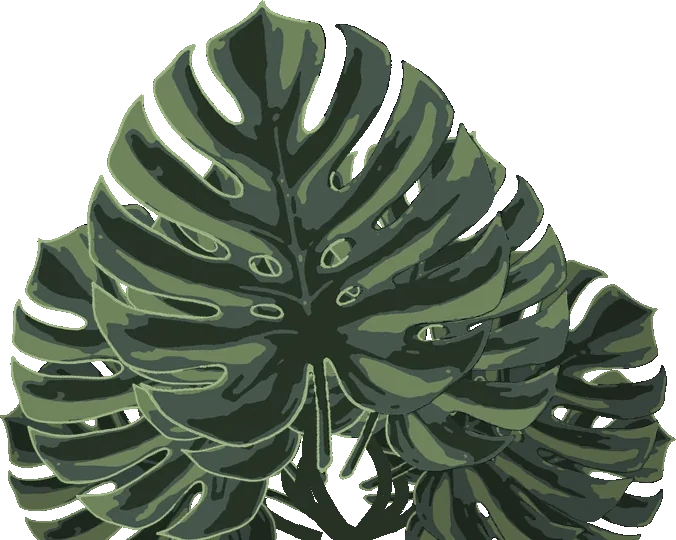
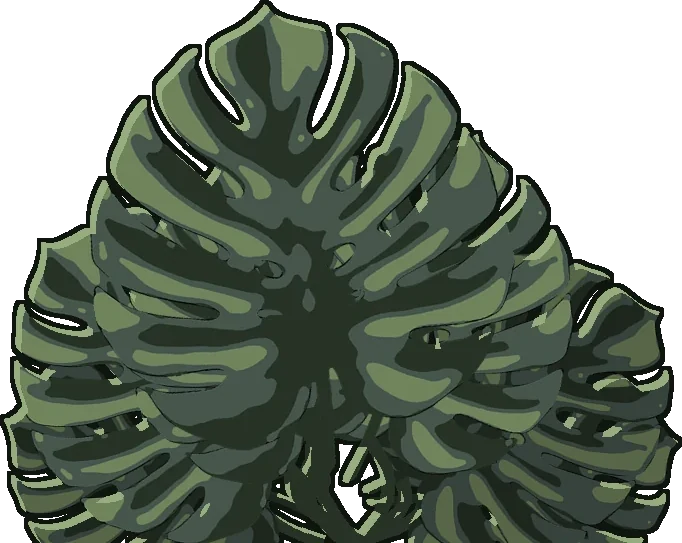
group-only ink outlines on grass and monstera; style.md

Changed region(s): [[0.0, 0.0, 1.0, 1.0]]

diff --git a/js/assets.js b/js/assets.js
@@ -34,8 +34,8 @@ export const V = {
 "tex/cl-s3.webp": "3932c956",
 "tex/clouds1.webp": "090f94e0",
 "tex/cloudsea.webp": "0c5f6e52",
-"tex/curlgrass.webp": "ccdf1a13",
-"tex/curlgrass2.webp": "82fd1fdf",
+"tex/curlgrass.webp": "3369e807",
+"tex/curlgrass2.webp": "20a52c26",
 "tex/door.webp": "d98fc0db",
 "tex/fanpalm.webp": "e7a29edd",
 "tex/farpines.webp": "e8c29d89",
@@ -53,8 +53,8 @@ export const V = {
 "tex/mass1.webp": "c328115c",
 "tex/mass2.webp": "695a4d5f",
 "tex/midpines.webp": "75256400",
-"tex/monstera-a.webp": "f95dcefc",
-"tex/monstera-b.webp": "d501b5db",
+"tex/monstera-a.webp": "786393f5",
+"tex/monstera-b.webp": "32ea7525",
 "tex/monstera.webp": "465a8a89",
 "tex/puff.png": "0bdc66af",
 "tex/roof.webp": "e75376e0",

diff --git a/tools/paint_grass_monstera.py b/tools/paint_grass_monstera.py
@@ -20,6 +20,17 @@ C = [tuple(int(v) for v in DARK) + (255,), tuple(int(v) for v in MID) + (255,), 
 RIM = tuple(int(min(255, v * 1.18 + 18)) for v in LIT) + (255,)
 
 S = 4  # supersample
+INK = tuple(int(v * 0.42) for v in DARK) + (255,)  # colored ink, a deep green, never pure black
+
+
+def outline(im, px=4):
+    # one ink line around the whole group's outer silhouette only: no lines inside the group
+    a = np.array(im).copy()
+    al = Image.fromarray(np.where(a[:, :, 3] > 110, 255, 0).astype('uint8'))
+    grown = np.array(al.filter(ImageFilter.MaxFilter(px * 2 + 1))) > 128
+    ring = grown & (a[:, :, 3] <= 110)
+    a[ring] = INK
+    return Image.fromarray(a)
 
 
 def blade(d, x0, y0, h, w, bend, curl, col, rim=None):
@@ -74,13 +85,14 @@ def grass_card(path, W=512, H=768, blades=13):
         if layer == 2:
             blade(d, x0 - w, base, h * 0.7, w * 0.9, bend * 0.8, curl, C[2], RIM)
     im = im.resize((W, H), Image.LANCZOS)
+    a = np.array(im); a[:, :, 3] = np.where(a[:, :, 3] > 110, 255, 0); im = outline(Image.fromarray(a), 3)
     im.save(path, 'WEBP', quality=88, method=6)
     print('wrote', path)
 
 
 def posterize_leaf(img):
     al0 = np.array(img.convert('RGBA'))[:, :, 3].astype(float)
-    a = np.array(img.convert('RGBA').filter(ImageFilter.GaussianBlur(3))).astype(float)
+    a = np.array(img.convert('RGBA').filter(ImageFilter.GaussianBlur(9))).astype(float)
     a[:, :, 3] = al0
     lum = a[:, :, :3].mean(2)
     al = a[:, :, 3]
@@ -94,11 +106,11 @@ def posterize_leaf(img):
     src = a[:, :, :3]
     edge = np.array(Image.fromarray(np.where(al0 > 110, 255, 0).astype('uint8')).filter(ImageFilter.MinFilter(9))) < 128
     rim = inside & edge & (np.arange(a.shape[1])[None, :] < a.shape[1] * 0.62)
-    out[rim, :3] = RIM[:3]
+    # no per-leaf rim: inner detail stays minimal, the light edge goes on the whole mass only
     out[:, :, 3] = np.where(al > 110, 255, 0)
     o = Image.fromarray(out.astype('uint8'))
     # flat shapes: smooth the step edges slightly so they read as painted, not pixel noise
-    o = o.filter(ImageFilter.ModeFilter(9))
+    o = o.filter(ImageFilter.ModeFilter(15))
     return o
 
 
@@ -135,7 +147,13 @@ def monstera_clump(path, W=1024, H=1024, seed=1, leaves=7):
         im.alpha_composite(lf, (int(cx - lf.width / 2), int(cy - lf.height / 2)))
     a = np.array(im)
     a[:, :, 3] = np.where(a[:, :, 3] > 120, 255, 0)
-    Image.fromarray(a).save(path, 'WEBP', quality=88, method=6)
+    # light rim on the lit (upper-left) side of the whole mass's silhouette only
+    inside = a[:, :, 3] > 0
+    er = np.array(Image.fromarray((inside * 255).astype('uint8')).filter(ImageFilter.MinFilter(13))) < 128
+    sh = np.zeros_like(inside); sh[6:, 6:] = inside[:-6, :-6]  # pixels whose up-left neighbour is outside = lit edge
+    lit = inside & er & ~sh
+    a[lit, :3] = RIM[:3]
+    outline(Image.fromarray(a), 4).save(path, 'WEBP', quality=88, method=6)
     print('wrote', path)
 
 

diff --git a/notes/style.md b/notes/style.md
@@ -1,0 +1,37 @@
+# Love Letter style sheet
+
+One hand-painted, calm, cinematic graphic-novel picture with soft toon color. Every element follows these rules.
+
+## Palette
+- Forest greens come from the pine painting (tex/tallpine.webp). Grass and monstera use the same three greens, sampled from it by tools/paint_grass_monstera.py: dark, mid, lit, plus one light rim color.
+- Sky: morning blue at the top, soft lilac-peach low. Dusk: warm peach and rose. Night: deep navy with a faint cool-rose afterglow low on the horizon.
+- Warm accents only on the subjects: window light, the red balloon, the letter paper.
+- No sun. No sun disc, no glow ball, no sun setting into the clouds. The warm sky gradient carries the light.
+
+## Value steps
+- Each painted element has 2 to 3 flat value steps: shade, mid, lit. No smooth gradients inside a shape.
+- Near frame is darkest, the subject area is brightest, far layers are lighter and bluer (aerial perspective).
+
+## Ink lines
+- Thin colored ink (not pure black) on the subjects: house, balloon, letter.
+- Ink fades with depth. Far cloud cards lift their dark lines toward the paint around them (uInkFade, 0 at z -15, up to 0.85 far away).
+- No per-leaf or per-blade ink on plants and grass. Plants read by silhouette and value steps only.
+
+## Brush and texture
+- Big simple shapes with clean silhouettes. Grouped masses, not many small bits.
+- Grass: only long, curvy S-curve blades in grouped clumps. No short tufts, no seed heads, no speckle.
+- Monstera: big heart-shaped leaves with deep side splits and a few holes, on curved dark stems. Used only as edge framing.
+- Clouds: whole clouds, cleanly cut out, soft painted bases (fadeBot) so no card edge shows.
+
+## Lighting per beat
+- Beat 1, the house: cool morning blue sky, soft light shafts fading near the top, warm window light, low haze between pine rows.
+- Beat 2, the balloon: open lilac-blue sky full of whole clouds in 3 depth layers; turns peach and rose on the way up.
+- Beat 3, the letter: navy night with stars, a cloud sea below with soft moonlit tops, a faint afterglow on the horizon only.
+
+## Grain
+- One light film grain over the whole frame, the same in every beat. No vignettes, glows or shadows on the UI.
+
+## Depth and motion
+- One craning camera. Layers stand still in the world, so far layers always move slower.
+- One critically damped spring for pointer and touch tilt. No overshoot, nothing switches on or off.
+- Front plants and front clouds stay at the edges and corners and never cover the subject.
